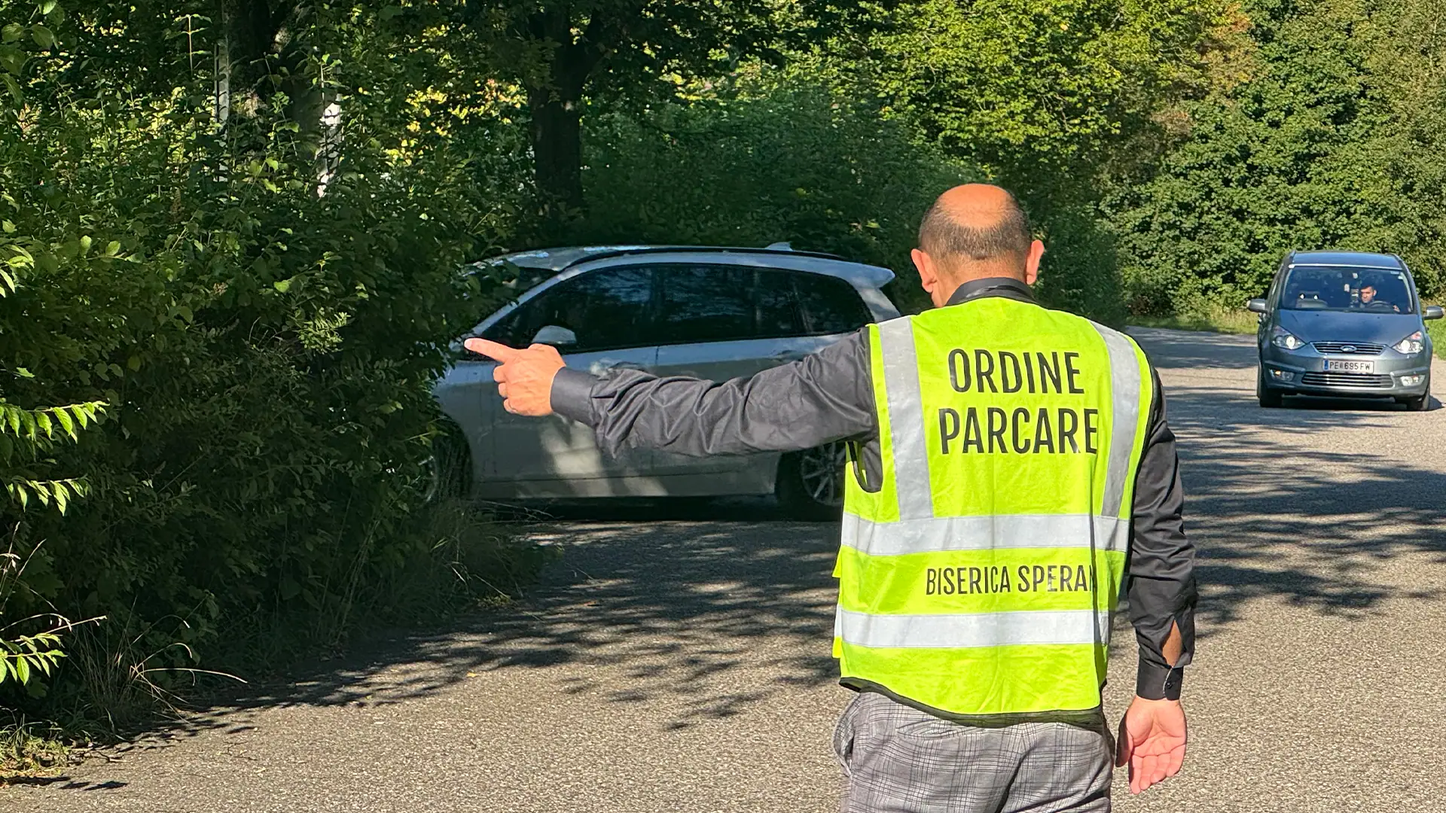
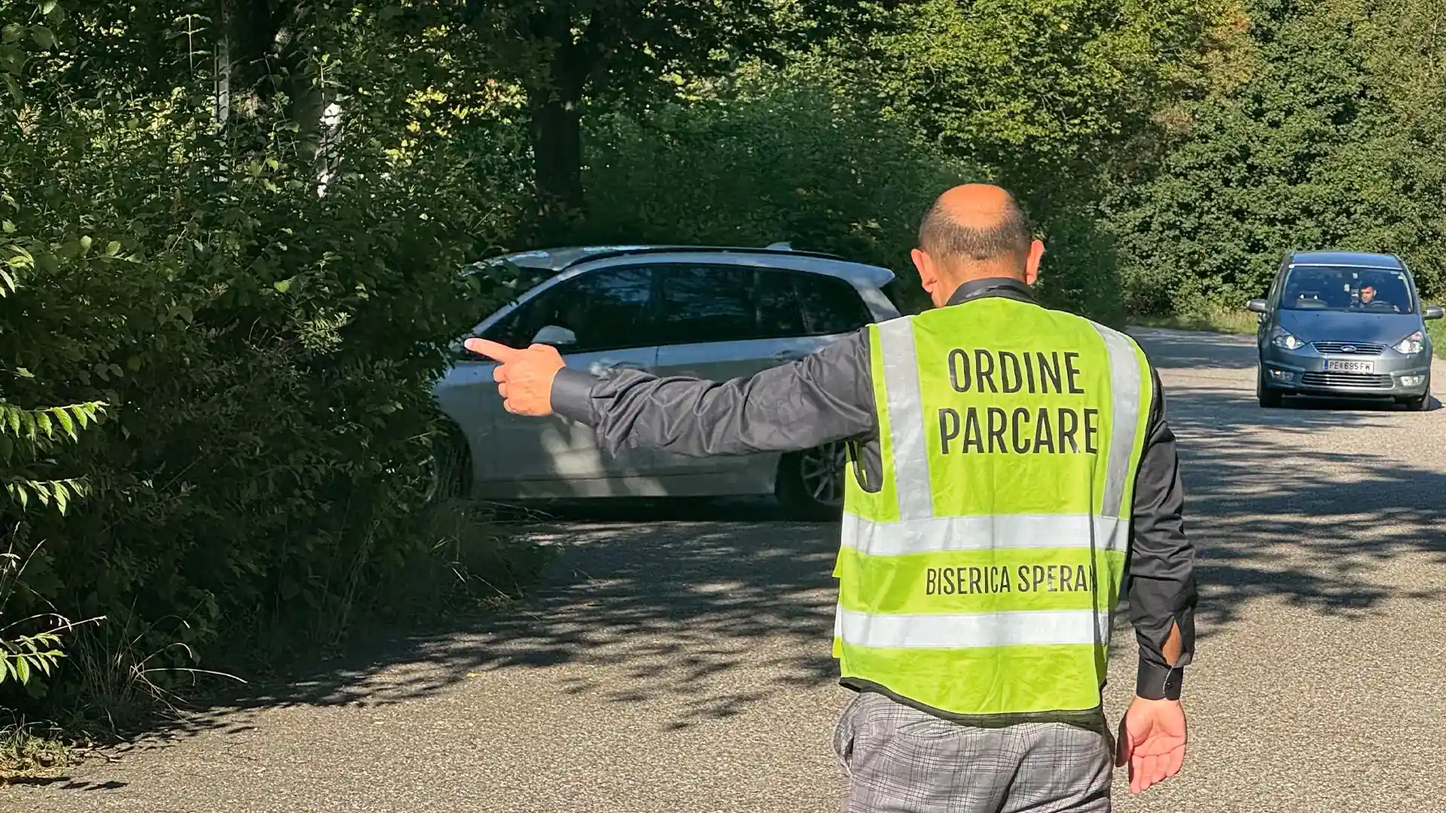
Photo Update

diff --git a/hopeyouth.html b/hopeyouth.html
@@ -102,21 +102,21 @@
             
             <div class="fadeInDelay image-cell service-times-picture2">
               <img
-                src="assets/img/hopeyouth/pray.jpg"
+                src="assets/img/hopeyouth/pray.webp"
                 alt="Tinerii se roagă"
                 loading="lazy"
               />
             </div>
             <div class="fadeInDelay image-cell service-times-picture3">
               <img
-                src="assets/img/hopeyouth/preach.jpg"
+                src="assets/img/hopeyouth/preach.webp"
                 alt="Tinerii predică"
                 loading="lazy"
               />
             </div>
             <div class="fadeInDelay image-cell service-times-picture1">
               <img
-                src="assets/img/hopeyouth/sing.jpg"
+                src="assets/img/hopeyouth/sing.webp"
                 alt="Tinerii cântă"
                 loading="lazy"
               />
@@ -167,7 +167,7 @@
           <div class="welcome-container-item container-item">
             <div class="image-cell">
               <img
-                src="assets/img/hopeyouth/hopeyouth.jpg"
+                src="assets/img/hopeyouth/hopeyouth.webp"
                 alt="Grup de tineri"
                 loading="lazy"
               />
@@ -228,13 +228,13 @@
 
           <div class="team-card-dark">
             <img
-              src="assets/img/echipa_speranta/vasile_radu.JPG"
-              alt="Vasile Radu"
+              src="assets/img/echipa_speranta/gheorghe_radu.jpg"
+              alt="Gheorghe"
               loading="lazy"
             />
             <div class="team-card-text">
-              <h3>Vasile Radu</h3>
-              <p>Diacon / Coordonator HopeYouth</p>
+              <h3>Gheorghe Radu</h3>
+              <p>Coordonator HopeYouth</p>
               <div class="contact-items">
                 <a href="mailto:email@exemplu.com" class="contact dark-contact"
                   ><svg
@@ -291,7 +291,7 @@
           <div class="gallery-card gallery-card1">
             <img
               class="fadeIn"
-              src="assets/img/hopeyouth/gallery-card1.jpg"
+              src="assets/img/hopeyouth/gallery-card1.webp"
               alt="Imagine 1"
               loading="lazy"
             />
@@ -299,7 +299,7 @@
           <div class="gallery-card gallery-card2">
             <img
               class="fadeIn"
-              src="assets/img/hopeyouth/gallery-card2.jpg"
+              src="assets/img/hopeyouth/gallery-card2.webp"
               alt="Imagine 2"
               loading="lazy"
             />
@@ -307,7 +307,7 @@
           <div class="gallery-card gallery-card3">
             <img
               class="fadeIn"
-              src="assets/img/hopeyouth/gallery-card3.jpg"
+              src="assets/img/hopeyouth/gallery-card3.webp"
               alt="Imagine 3"
               loading="lazy"
             />
@@ -315,7 +315,7 @@
           <div class="gallery-card gallery-card4">
             <img
               class="fadeIn"
-              src="assets/img/hopeyouth/hopeyouth.jpg"
+              src="assets/img/hopeyouth/hopeyouth.webp"
               alt="Imagine 4"
               loading="lazy"
             />
@@ -323,7 +323,7 @@
           <div class="gallery-card gallery-card5">
             <img
               class="fadeIn"
-              src="assets/img/hopeyouth/gallery-card5.jpg"
+              src="assets/img/hopeyouth/gallery-card5.webp"
               alt="Imagine 5"
               loading="lazy"
             />
@@ -331,7 +331,7 @@
           <div class="gallery-card gallery-card6">
             <img
               class="fadeIn"
-              src="assets/img/hopeyouth/gallery-card6.jpg"
+              src="assets/img/hopeyouth/gallery-card6.webp"
               alt="Imagine 6"
               loading="lazy"
             />
@@ -339,7 +339,7 @@
           <div class="gallery-card gallery-card7">
             <img
               class="fadeIn"
-              src="assets/img/hopeyouth/gallery-card7.jpg"
+              src="assets/img/hopeyouth/gallery-card7.webp"
               alt="Imagine 6"
               loading="lazy"
             />

diff --git a/kids.html b/kids.html
@@ -102,13 +102,13 @@
         <div class="container-item-wrapper">
           <div class="grid-item service-times-grid-item">
             <div class="fadeInDelay image-cell service-times-picture1">
-              <img src="assets/img/kids/kid1.jpg" alt="kid" loading="lazy" />
+              <img src="assets/img/kids/kid1.webp" alt="kid" loading="lazy" />
             </div>
             <div class="fadeInDelay image-cell service-times-picture2">
-              <img src="assets/img/kids/kid3.jpg" alt="kid" loading="lazy" />
+              <img src="assets/img/kids/kid3.webp" alt="kid" loading="lazy" />
             </div>
             <div class="fadeInDelay image-cell service-times-picture3">
-              <img src="assets/img/kids/kid2.jpg" alt="kid" loading="lazy" />
+              <img src="assets/img/kids/kid2.webp" alt="kid" loading="lazy" />
             </div>
           </div>
           <div class="container-item">
@@ -150,7 +150,7 @@
           </div>
           <div class="container-item">
             <div class="image-cell">
-              <img src="assets/img/kids/groupkids.jpg" alt="" loading="lazy" />
+              <img src="assets/img/kids/groupkids.webp" alt="" loading="lazy" />
             </div>
           </div>
         </div>
@@ -275,7 +275,7 @@
           <div class="gallery-card gallery-card1">
             <img
               class="fadeIn"
-              src="assets/img/kids/kid4.jpg"
+              src="assets/img/kids/kid4.webp"
               alt="Imagine 1"
               loading="lazy"
             />
@@ -283,7 +283,7 @@
           <div class="gallery-card gallery-card2">
             <img
               class="fadeIn"
-              src="assets/img/kids/kid5.jpg"
+              src="assets/img/kids/kid5.webp"
               alt="Imagine 2"
               loading="lazy"
             />
@@ -291,7 +291,7 @@
           <div class="gallery-card gallery-card3">
             <img
               class="fadeIn"
-              src="assets/img/kids/kid6.jpg"
+              src="assets/img/kids/kid6.webp"
               alt="Imagine 3"
               loading="lazy"
             />
@@ -299,7 +299,7 @@
           <div class="gallery-card gallery-card4">
             <img
               class="fadeIn"
-              src="assets/img/kids/kid7.jpg"
+              src="assets/img/kids/kid7.webp"
               alt="Imagine 4"
               loading="lazy"
             />
@@ -307,7 +307,7 @@
           <div class="gallery-card gallery-card5">
             <img
               class="fadeIn"
-              src="assets/img/kids/kid8.jpg"
+              src="assets/img/kids/kid8.webp"
               alt="Imagine 5"
               loading="lazy"
             />
@@ -315,7 +315,7 @@
           <div class="gallery-card gallery-card6">
             <img
               class="fadeIn"
-              src="assets/img/kids/kid9.jpg"
+              src="assets/img/kids/kid9.webp"
               alt="Imagine 6"
               loading="lazy"
             />
@@ -323,7 +323,7 @@
           <div class="gallery-card gallery-card7">
             <img
               class="fadeIn"
-              src="assets/img/kids/kid10.jpg"
+              src="assets/img/kids/kid10.webp"
               alt="Imagine 7"
               loading="lazy"
             />
